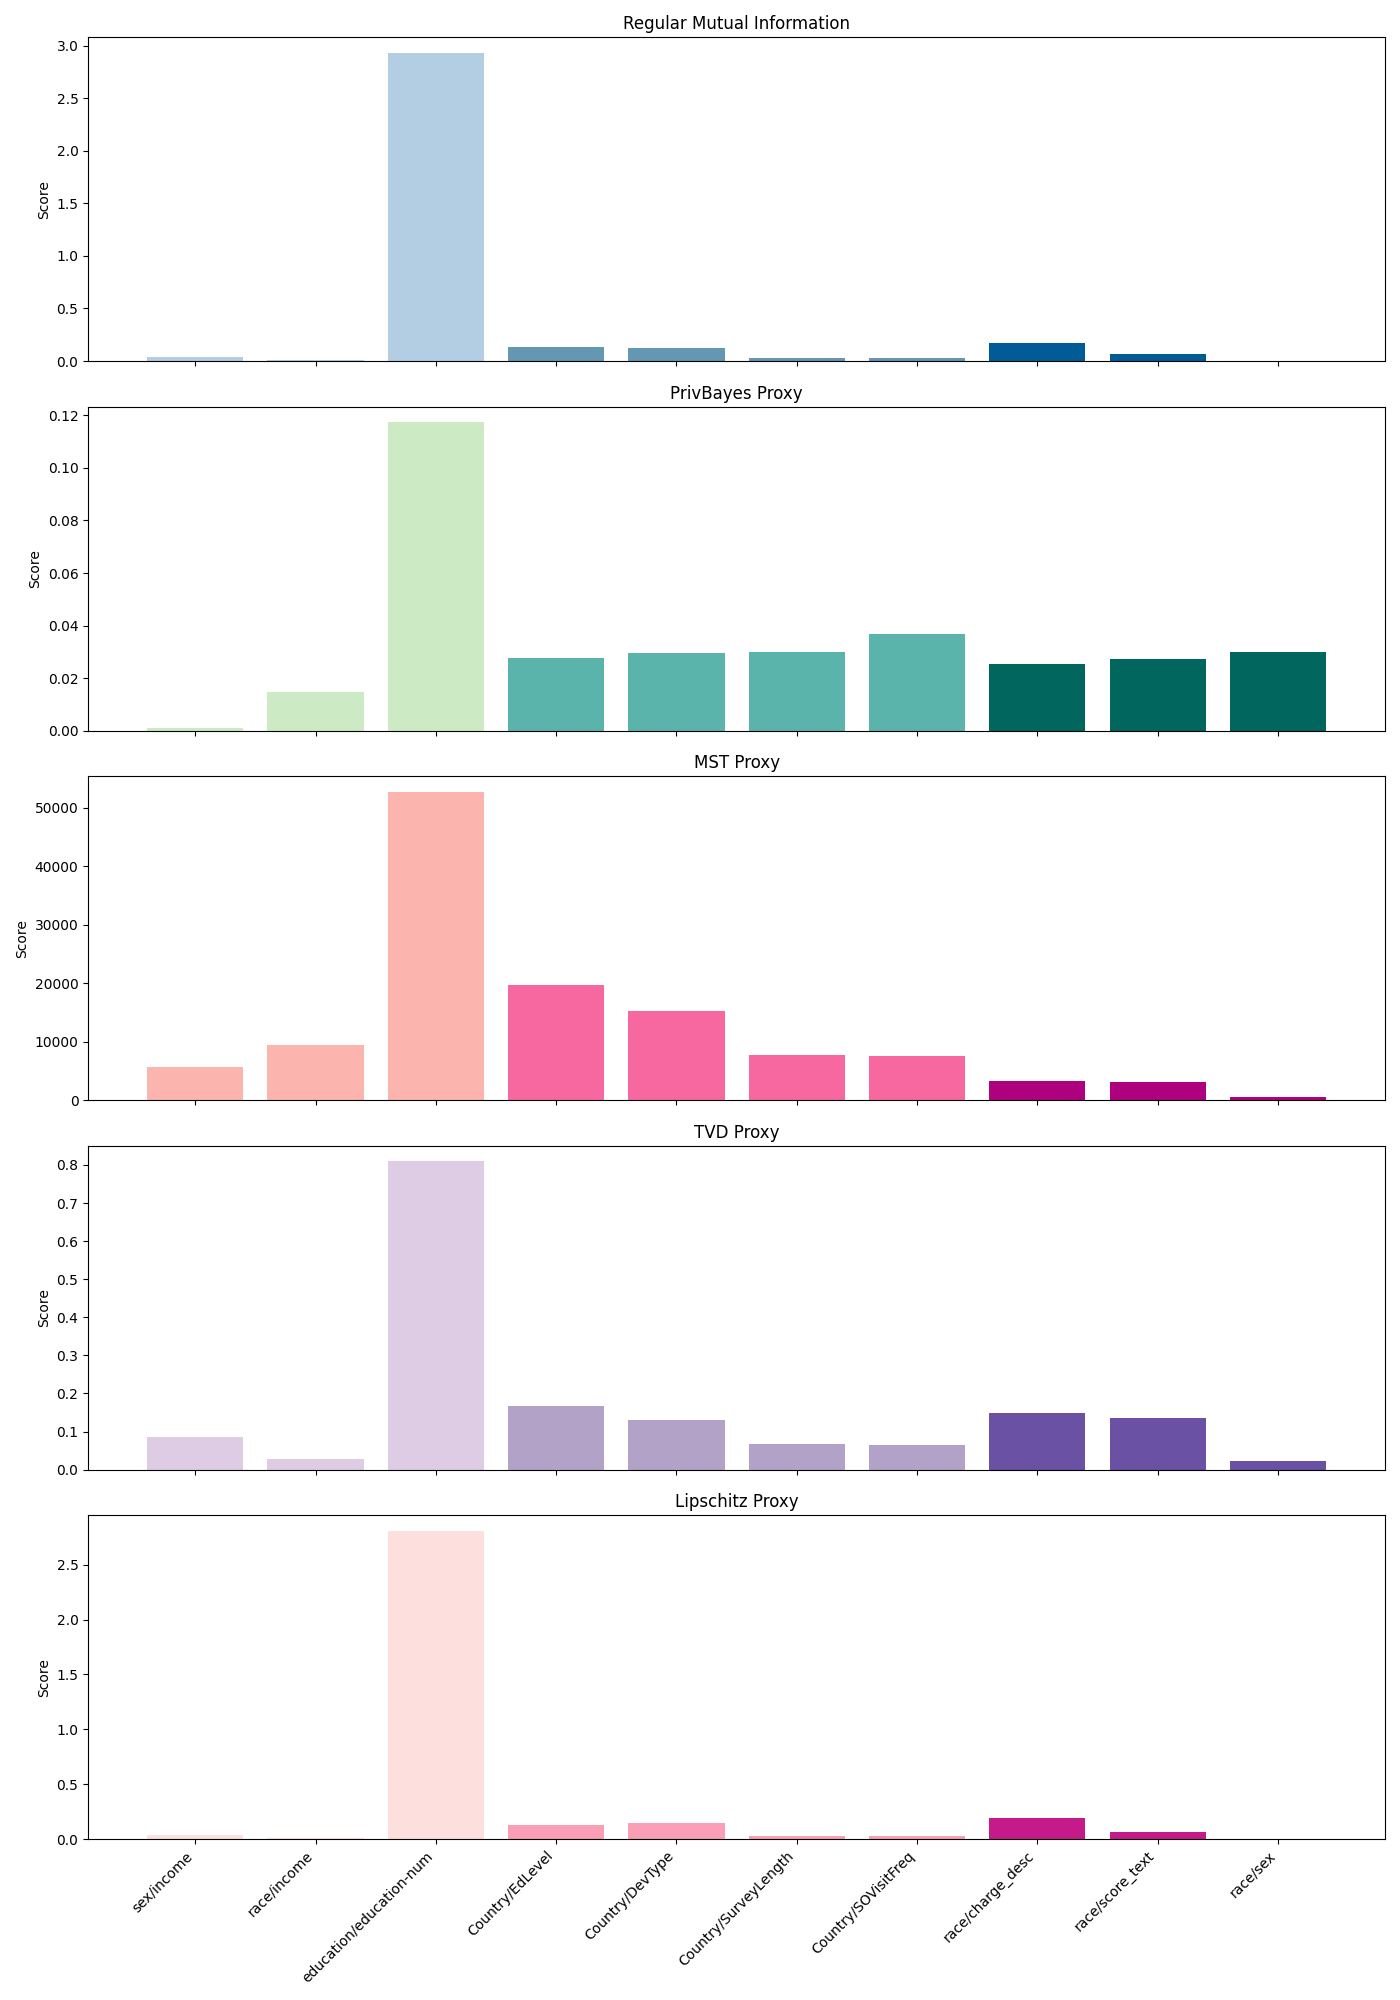
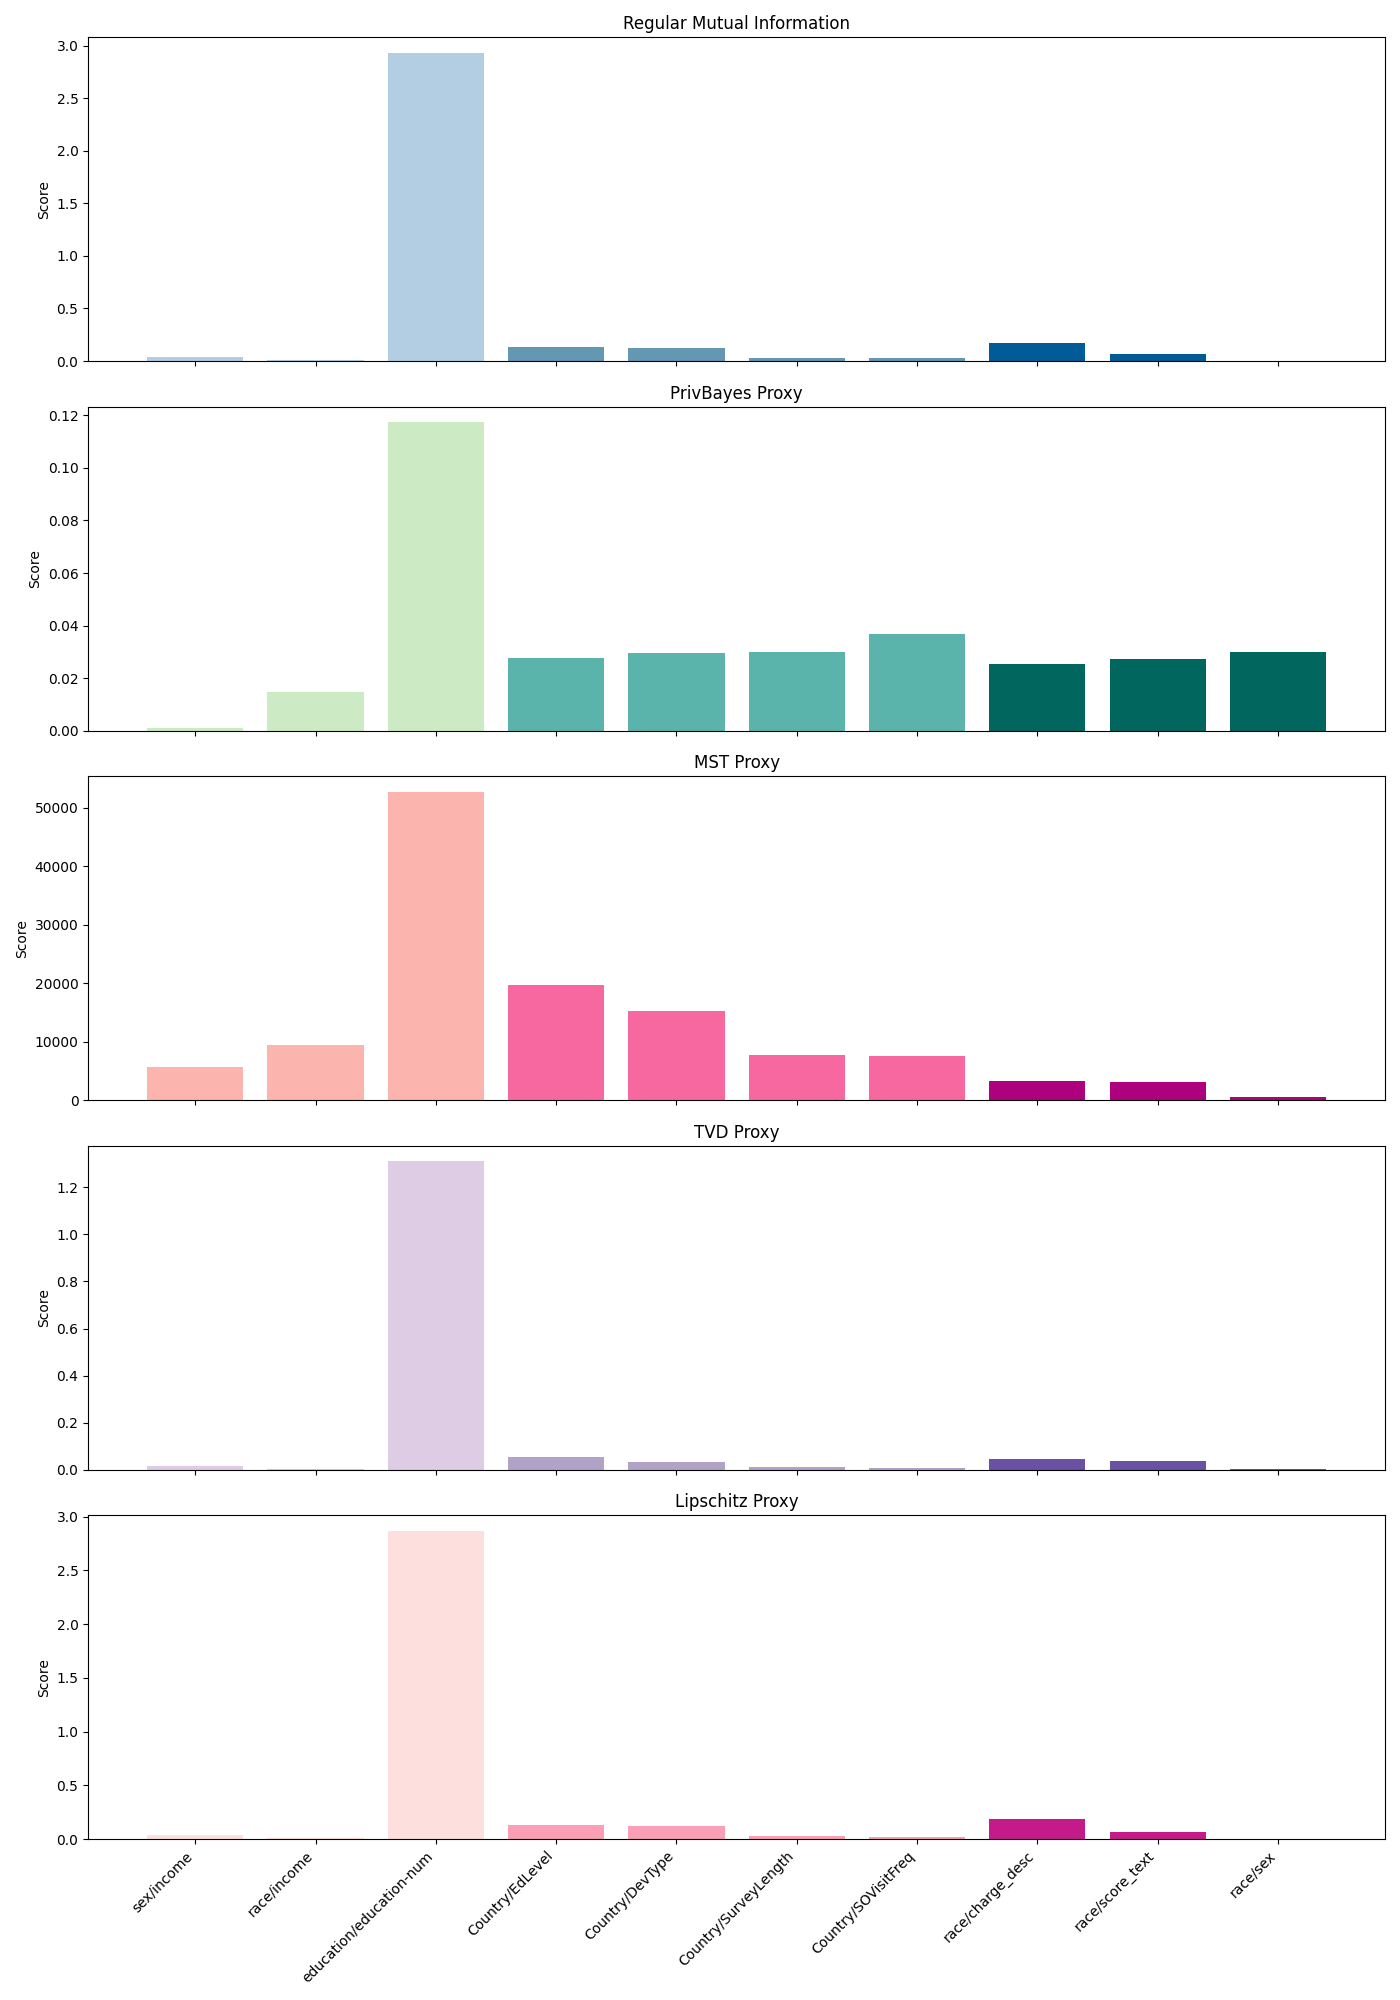
Fixed TVD

diff --git a/main.py b/main.py
@@ -180,25 +180,25 @@ def conditional_mi_proxies():
 
 if __name__ == "__main__":
     # ----------------Unconditional MI Proxies----------------
-    # unconditional_mi_proxies()
+    unconditional_mi_proxies()
 
     # ----------------Conditional MI Proxies----------------
-    # conditional_mi_proxies()
+    conditional_mi_proxies()
 
     # ----------------MaxSAT Repair----------------
-    maxsat_results = []
-    maxsat_results.append(ProxyRepairMaxSat('data/adult.csv').calculate("sex", "income>50K", "education"))
-    maxsat_results.append(ProxyRepairMaxSat('data/adult.csv').calculate("race", "income>50K", "education"))
-    maxsat_results.append(ProxyRepairMaxSat('data/adult.csv').calculate("education", "education-num", "sex"))
+    # maxsat_results = []
+    # maxsat_results.append(ProxyRepairMaxSat('data/adult.csv').calculate("sex", "income>50K", "education"))
+    # maxsat_results.append(ProxyRepairMaxSat('data/adult.csv').calculate("race", "income>50K", "education"))
+    # maxsat_results.append(ProxyRepairMaxSat('data/adult.csv').calculate("education", "education-num", "sex"))
 
     # maxsat_results.append(ProxyRepairMaxSat("data/stackoverflow.csv").calculate("Country", "EdLevel", "Age"))
     # maxsat_results.append(ProxyRepairMaxSat("data/stackoverflow.csv").calculate("Country", "DevType", "Age"))
     # maxsat_results.append(ProxyRepairMaxSat("data/stackoverflow.csv").calculate("Country", "SurveyLength", "Age"))
     # maxsat_results.append(ProxyRepairMaxSat("data/stackoverflow.csv").calculate("Country", "SOVisitFreq", "Age"))
 
-    print()
-    maxsat_results.append(ProxyRepairMaxSat("data/compas-scores.csv").calculate("race", "c_charge_desc", "age"))
-    maxsat_results.append(ProxyRepairMaxSat("data/compas-scores.csv").calculate("race", "score_text", "age"))
-    maxsat_results.append(ProxyRepairMaxSat("data/compas-scores.csv").calculate("race", "sex", "age"))
+    # print()
+    # maxsat_results.append(ProxyRepairMaxSat("data/compas-scores.csv").calculate("race", "c_charge_desc", "age"))
+    # maxsat_results.append(ProxyRepairMaxSat("data/compas-scores.csv").calculate("race", "score_text", "age"))
+    # maxsat_results.append(ProxyRepairMaxSat("data/compas-scores.csv").calculate("race", "sex", "age"))
 
     # maxsat_results.append(ProxyRepairMaxSat('data/toy_example.csv').calculate("A", "B", "C"))

diff --git a/proxy_mutual_information_tvd.py b/proxy_mutual_information_tvd.py
@@ -88,7 +88,7 @@ class ProxyMutualInformationTVD:
         p_o = joint.sum(axis=0, keepdims=True)
         expected = p_s @ p_o
 
-        tvd = 0.5 * np.sum(np.abs(joint - expected))
+        tvd = np.sum(np.abs(joint - expected))
 
         return 2 * tvd**2
 
